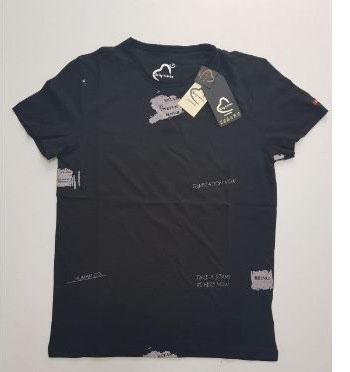
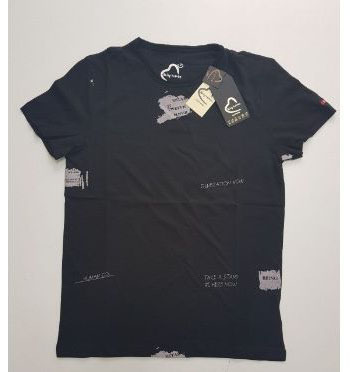
Images Fixed, Image Border Added

diff --git a/style.css b/style.css
@@ -41,14 +41,21 @@
 }
 
 @media only screen and (max-width: 900px) {
+
     /* For mobile phones: */
     .logo-dimen {
         width: 7rem;
     }
+
     .single_catagory_area {
         margin-bottom: 1rem;
     }
+
     .single-image-item {
         height: auto !important;
     }
+}
+
+.single-product-wrapper .product-img {
+    border: 2px solid #e7be71;
 }
